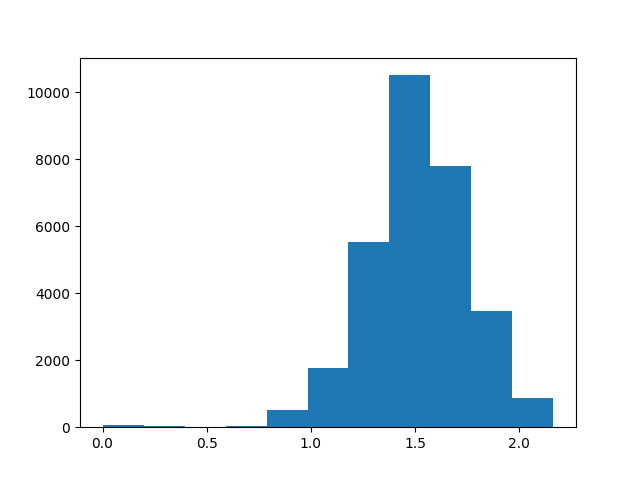
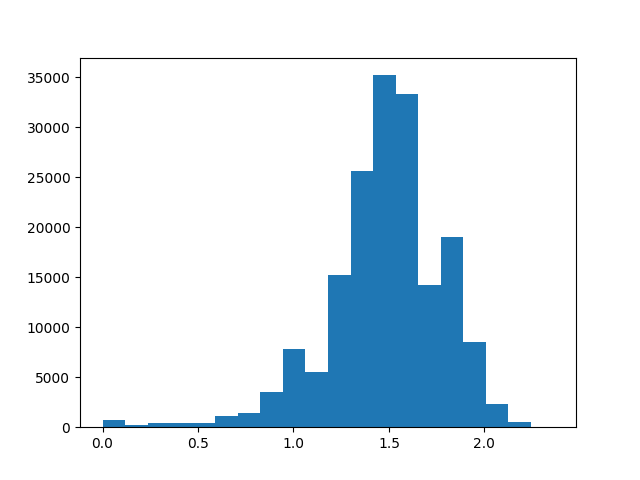
sl: analyze feature distributions.

diff --git a/agent/dataset/data_loader.py b/agent/dataset/data_loader.py
@@ -73,14 +73,15 @@ class HDF5Dataset(Dataset):
         self.h5f = None # lazy loading
         self.normalize = normalize
         with h5py.File(hdf5_file, 'r') as f:
-            stats = f['statistics']
-            self.self_mean = stats['self_mean'][:]
-            self.self_std = stats['self_std'][:]
-            self.neighbor_mean = stats['neighbor_mean'][:]
-            self.neighbor_std = stats['neighbor_std'][:]
-            self.total_samples = stats['total_samples'][()]
+            if normalize:
+                stats = f['statistics']
+                self.self_mean = stats['self_mean'][:]
+                self.self_std = stats['self_std'][:]
+                self.neighbor_mean = stats['neighbor_mean'][:]
+                self.neighbor_std = stats['neighbor_std'][:]
+                self.total_samples = stats['total_samples'][()]
             self.steps = list(f.keys())
-            self.steps.remove('statistics')
+            self.steps = [step for step in self.steps if 'step' in step]
 
             # get selected feature indices
             self_feature_names = f['step_0/self_features'].attrs.get('feature_names')
@@ -106,7 +107,7 @@ class HDF5Dataset(Dataset):
             self.h5f = h5py.File(self.hdf5_file, 'r')
 
     def __len__(self):
-        return self.total_samples
+        return len(self.steps)
 
     def __getitem__(self, idx):
         """
@@ -174,20 +175,18 @@ if __name__ == '__main__':
     #       f"neighbor_mean: {neighbor_mean}, \n neighbor_std: {neighbor_std}, \n"
     #       f"total_samples: {total_samples}")
 
-    file_path = os.path.dirname(os.path.abspath(__file__)) + "/data-1734690536.h5"
-    selected_self_features = [#'cw', 'n_defer_access', 'n_waited_slots', 
-                            #   'n_in_queue', 'n_sending', 'n_acked', 
-                            'n_rx_drop', 
-                            #   'n_tx_data', 'n_acked_data', 
-                            #   'last_tx_delay', 'last_txok_delay', 'chan_util', 
-                            #   'app_interval_mean', 'app_interval_std', 'app_interval_min', 'app_interval_max',
-                            #   'tx_interval_mean', 'tx_interval_std', 'tx_interval_min', 'tx_interval_max', 
-                            #   'tx_duration_mean', 'tx_duration_std', 'tx_duration_min', 'tx_duration_max'
+    file_path = os.path.dirname(os.path.abspath(__file__)) + "/data-1735005131.h5"
+    selected_self_features = ['delta_time', 'cw', 'n_defer_access', 'n_waited_slots', 
+                              'n_in_queue', 'n_sending', 'n_acked', 'n_rx_drop', 
+                              'n_tx_data', 'n_acked_data', 'last_tx_delay', 'last_txok_delay', 'chan_util', 
+                              'app_interval_mean', 'app_interval_std', 'app_interval_min', 'app_interval_max',
+                              'tx_interval_mean', 'tx_interval_std', 'tx_interval_min', 'tx_interval_max', 
+                              'tx_duration_mean', 'tx_duration_std', 'tx_duration_min', 'tx_duration_max'
                               ]
     selected_neighbor_features = ['role', 'n_tx_data', 'n_acked_data', 'last_tx_delay', 
-                                #   'last_txok_delay', 'chan_util', 'mean_rssi', 
-                                #   'tx_interval_mean', 'tx_interval_std', 'tx_interval_min', 'tx_interval_max', 
-                                #   'tx_duration_mean', 'tx_duration_std', 'tx_duration_min', 'tx_duration_max'
+                                  'last_txok_delay', 'chan_util', 'mean_rssi', 
+                                  'tx_interval_mean', 'tx_interval_std', 'tx_interval_min', 'tx_interval_max', 
+                                  'tx_duration_mean', 'tx_duration_std', 'tx_duration_min', 'tx_duration_max'
                                   ]
     
     dataset = HDF5Dataset(file_path, selected_self_features, selected_neighbor_features, normalize=False)
@@ -200,21 +199,35 @@ if __name__ == '__main__':
     )
 
     # test data loader
-    # for batch_idx, (self_features, padded_neighbors, key_padding_mask, min_neighbor_backoffs) in enumerate(data_loader):
-    #     if batch_idx >= 1:
-    #         break
-    #     print(f"Batch {batch_idx + 1}:")
-    #     print("Self Features Shape:", self_features.shape)
-    #     print("Padded Neighbors Shape:", padded_neighbors.shape)
-    #     print("Key Padding Mask Shape:", key_padding_mask.shape)
-    #     print("Min Neighbor Backoffs Shape:", min_neighbor_backoffs.shape)
+    for batch_idx, (self_features, padded_neighbors, key_padding_mask, min_neighbor_backoffs) in enumerate(data_loader):
+        if batch_idx >= 1:
+            break
+        print(f"Batch {batch_idx + 1}:")
+        print("Self Features Shape:", self_features.shape)
+        print("Padded Neighbors Shape:", padded_neighbors.shape)
+        print("Key Padding Mask Shape:", key_padding_mask.shape)
+        print("Min Neighbor Backoffs Shape:", min_neighbor_backoffs.shape)
     
     # analyze dataset
-    feature_list = []
-    for feature, _, _, _ in data_loader:
-        batch_feature = feature.view(-1)
-        feature_list.extend(batch_feature.tolist())
+    # feature_list = []
+    # for _, feature, _, _ in data_loader:
+    #     batch_feature = feature.view(-1)
+    #     # batch_feature = feature.squeeze(1)
+    #     feature_list.extend(batch_feature.tolist())
     
-    plt.figure()
-    plt.hist(feature_list, bins=20)
-    plt.show()
+    # # y = feature_list
+    # y = np.log(np.array(feature_list) + 1)
+
+    # # n_tx_data, n_acked_data = zip(*feature_list)
+    # # a = np.array(n_tx_data)
+    # # b = np.array(n_acked_data)
+    # # y = b/(a+1e-8)
+
+    # # log_feature = np.log(np.array(feature_list) + 1)
+    # # mean = np.mean(log_feature)
+    # # std = np.std(log_feature)
+    # # y = (log_feature - mean) / std
+
+    # plt.figure()
+    # plt.hist(y, bins=20)
+    # plt.show()

diff --git a/agent/channel_access_data_agent.py b/agent/channel_access_data_agent.py
@@ -78,7 +78,7 @@ class ChannelAccessRlAgent(RlAgent):
         super().__init__(node_id, memory_id, enable_learning)
         self.agent_type = AgentType.RL_CHANNEL_ACCESS
 
-        state_size = 24
+        state_size = 25
         self.action_size = 4
         self.model = DDQN(state_size, self.action_size, hidden_size=HIDDEN_SIZE, 
                          batch_size=BATCH_SIZE, gamma=GAMMA, 
@@ -136,7 +136,8 @@ class ChannelAccessRlAgent(RlAgent):
         msg_interface.GetPy2CppVector()[self.memory_id].backoff = self.backoff
     
     def choose_action(self):
-        a_cw = math.log(self.access_info.cw + 1, 2)
+        a_dt = self.delta_time
+        a_cw = self.access_info.cw
         a_da = self.access_info.n_deferred_access
         a_nw = self.access_info.n_waited_slot
         a_nq = self.access_info.n_in_queue
@@ -170,7 +171,7 @@ class ChannelAccessRlAgent(RlAgent):
                   f"\t n_rx_drop={a_nrd}, n_neighbor={self.n_neighbor}, n_contention={self.n_contention}, "
                   f"min_neighbor_backoff={self.min_neighbor_backoff}")
 
-        self_features = [a_cw, a_da, a_nw, a_nq, a_ns, a_na, a_nrd] + [l_ns, l_na, l_td, l_ad, l_cu] + \
+        self_features = [a_dt, a_cw, a_da, a_nw, a_nq, a_ns, a_na, a_nrd] + [l_ns, l_na, l_td, l_ad, l_cu] + \
             l_ai + l_tis + l_tus
         
         neighbor_features = []
@@ -197,7 +198,7 @@ class ChannelAccessRlAgent(RlAgent):
         # normalize the obs
         if len(neighbor_features) != 0:
             # save to dataset
-            self_feature_names = ['cw', 'n_defer_access', 'n_waited_slots', 'n_in_queue', 
+            self_feature_names = ['delta_time', 'cw', 'n_defer_access', 'n_waited_slots', 'n_in_queue', 
                                 'n_sending', 'n_acked', 'n_rx_drop', 'n_tx_data', 'n_acked_data', 
                                 'last_tx_delay', 'last_txok_delay', 'chan_util', 
                                 'app_interval_mean', 'app_interval_std', 'app_interval_min', 

diff --git a/agent/models/attention.py b/agent/models/attention.py
@@ -331,7 +331,7 @@ def accuracy_attention(enc_model, dec_model, data_loader, device='cpu'):
         y_pred = dec_model(embeddings)
 
         # judge if do the correct classification
-        y_pred = (y_pred > 0.5).int().squeeze()
+        y_pred = (y_pred < 0.5).int().squeeze()
 
         accuracy += (y_pred == min_neighbor_backoff).sum().item()
 

diff --git a/agent/feature_extraction_sl.py b/agent/feature_extraction_sl.py
@@ -146,5 +146,5 @@ if __name__ == '__main__':
     
     else:
         # test the accuracy
-        accuracy = eval_attention(enc_model, dec_model, val_loader, device=DEVICE)
+        accuracy = accuracy_attention(enc_model, dec_model, val_loader, device=DEVICE)
         print("Accuracy: {:.4f}".format(accuracy))
